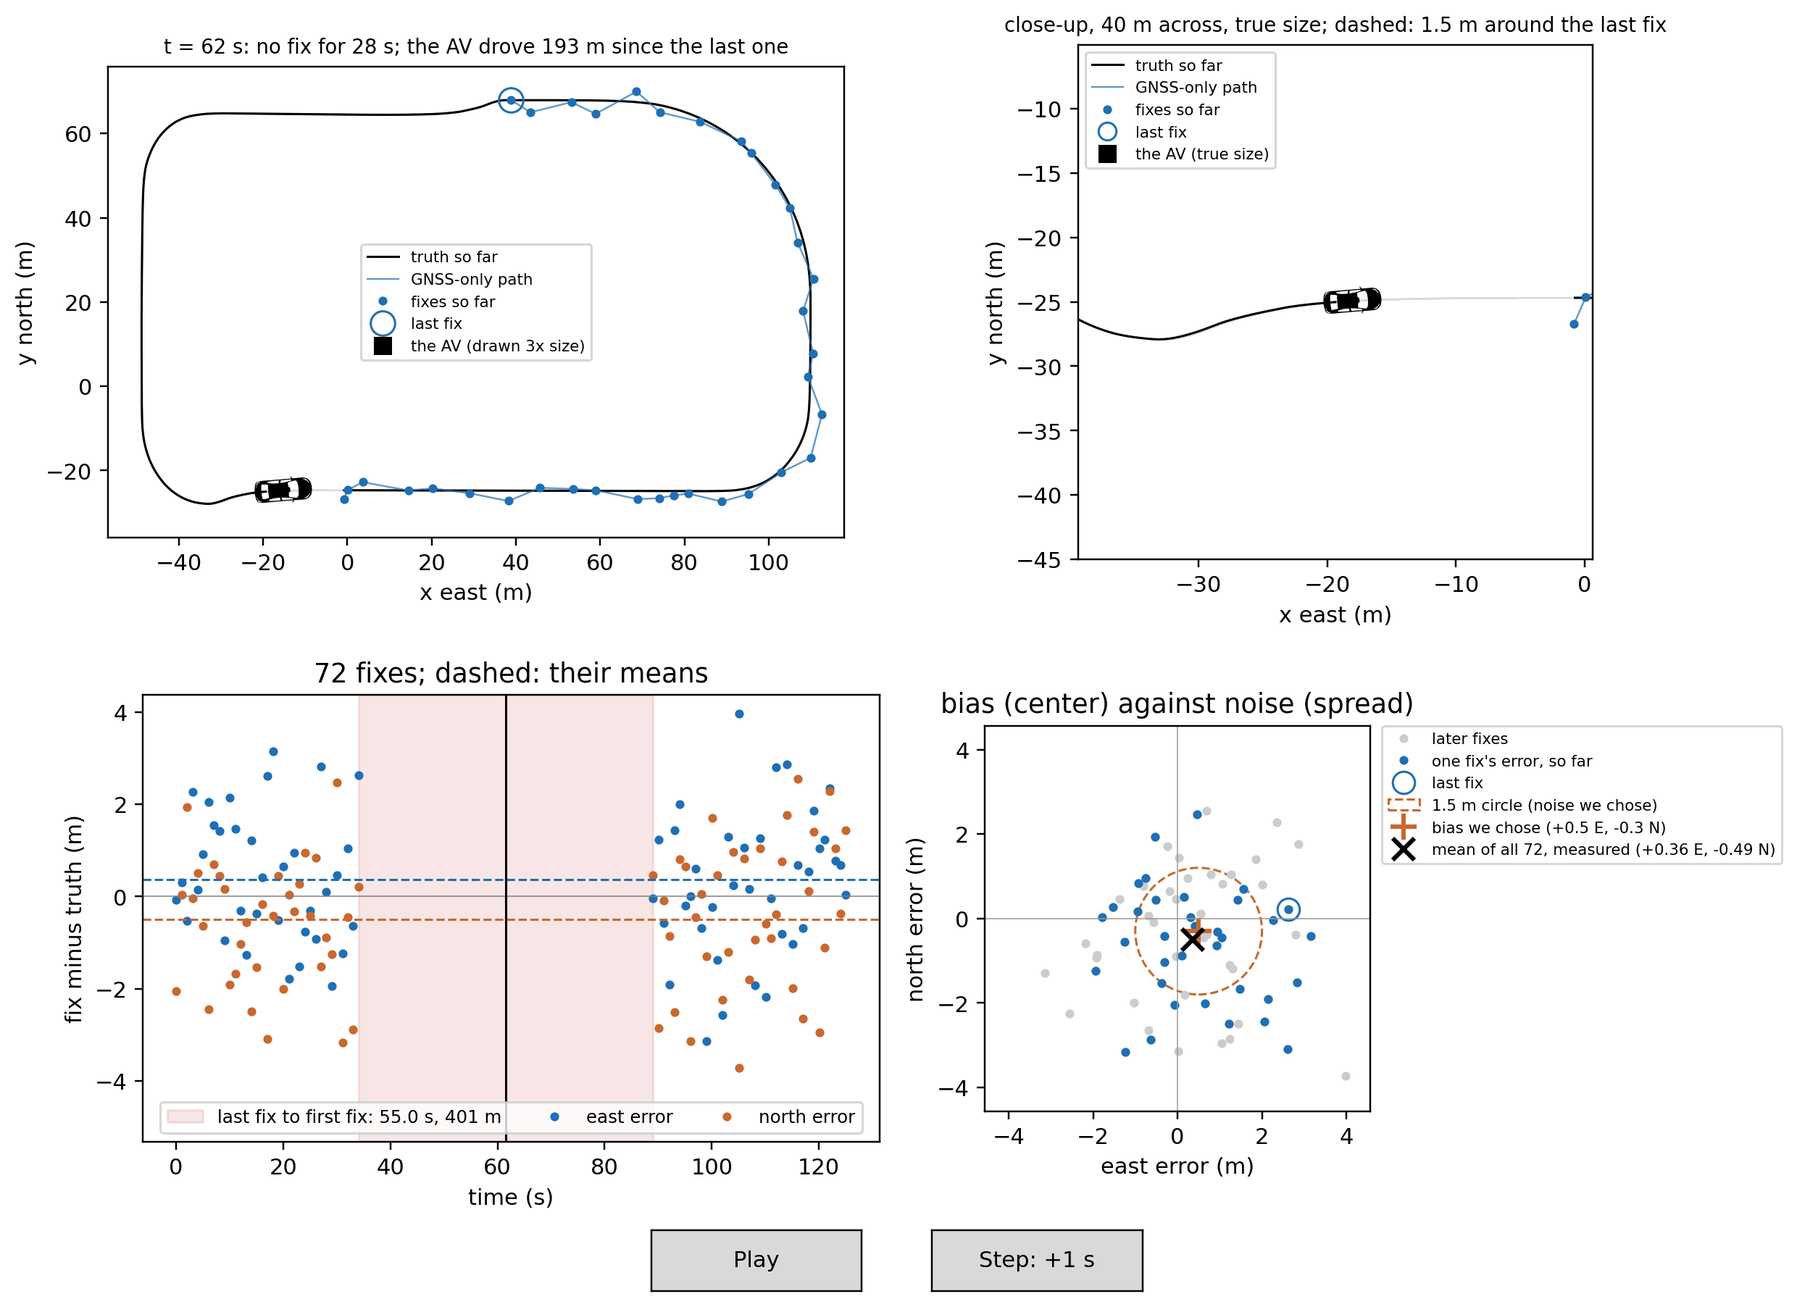
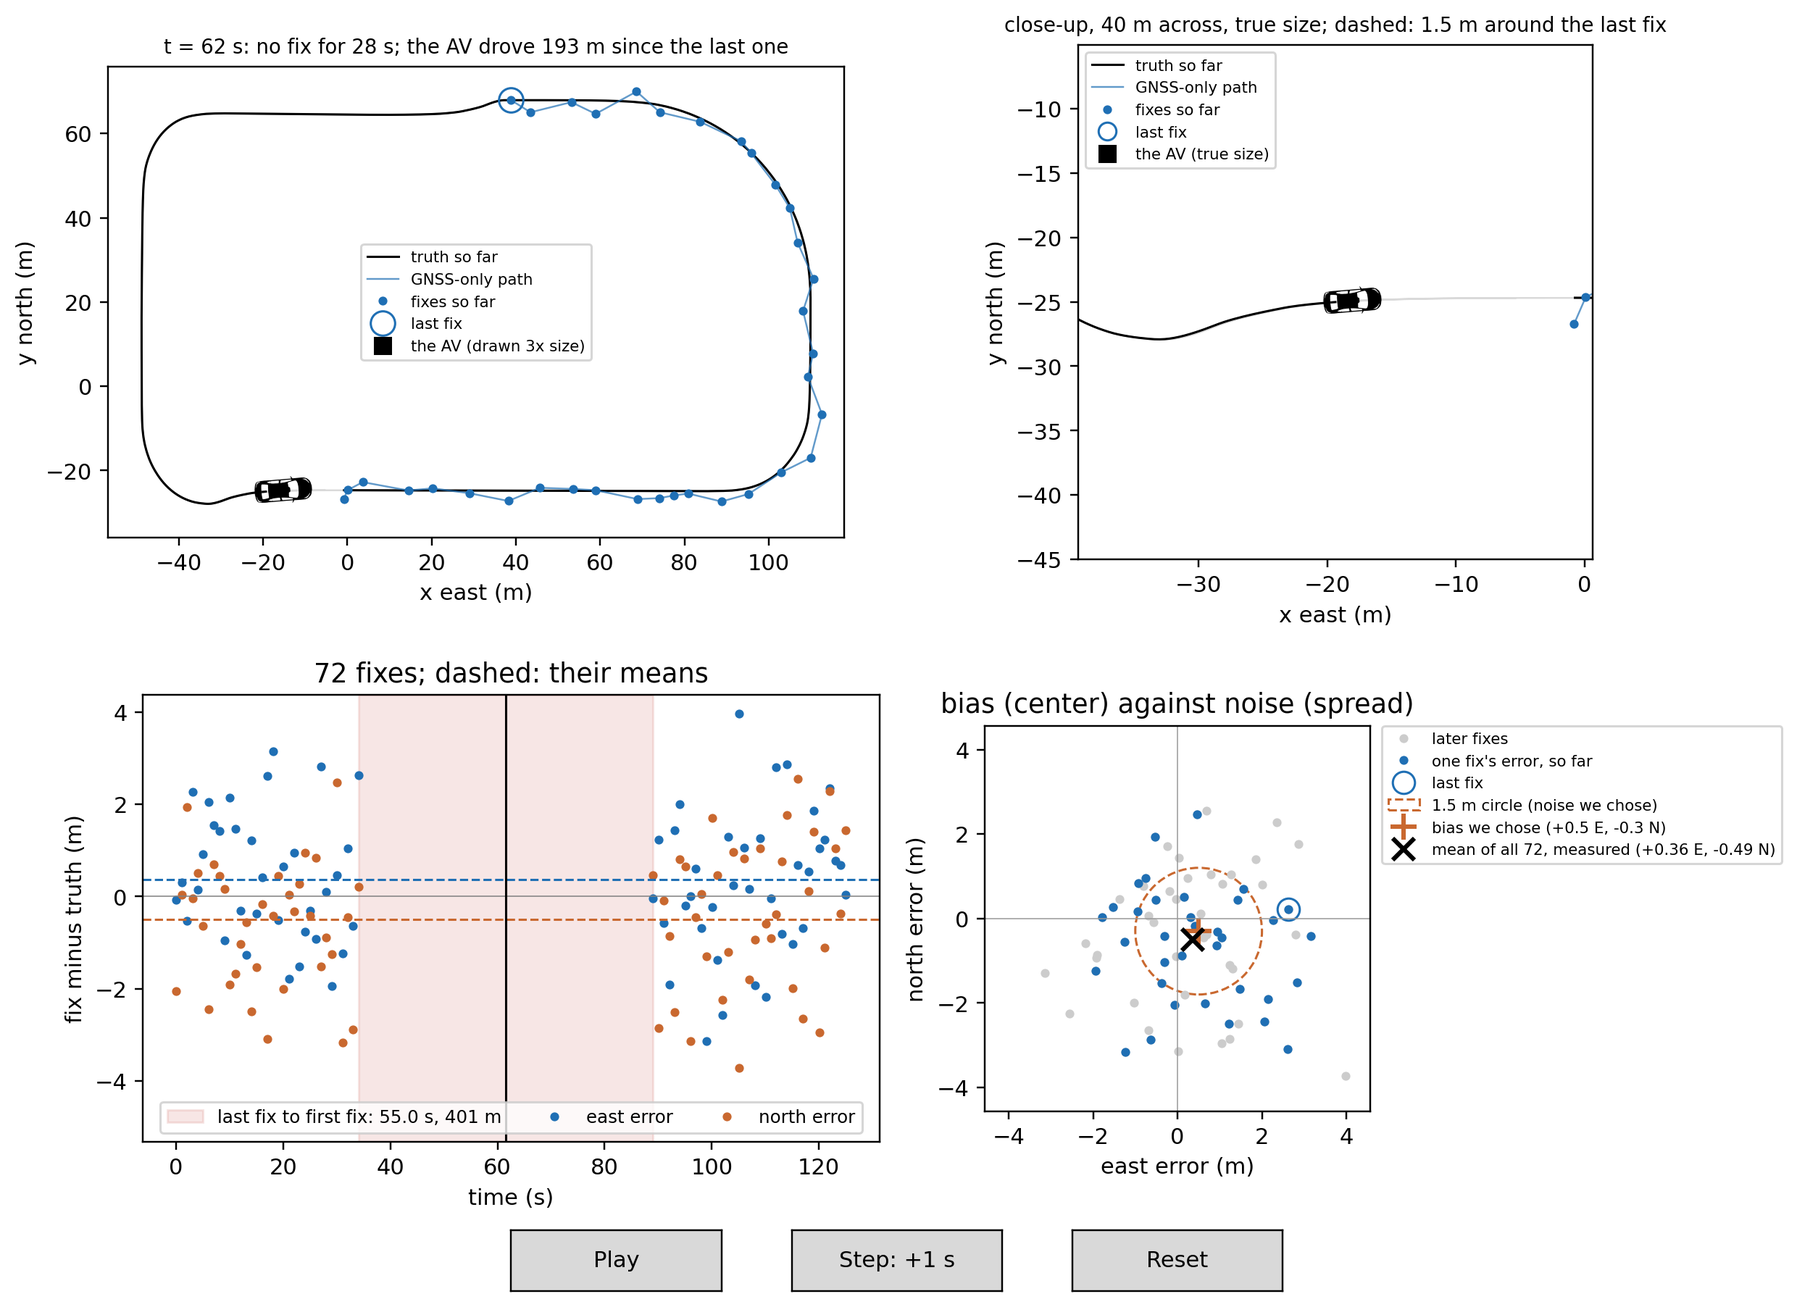
L6 pages: the 0.29 m bound first, dead reckoning step and summary (held back)
- Two lecture sections build the 0.29 m bound from the lane, the car and
  the heading; the appendix holds the formulas; glossary entry Error Bound.
- Dead reckoning: one-step figure, how the heading goes wrong, why corners
  matter, and a summary; RTK limits retitled; Reset button in the hands-on.

Changed region(s): [[0.5589, 0.9313, 0.7141, 0.9933], [0.4036, 0.9313, 0.5278, 0.9933], [0.2794, 0.9313, 0.3726, 0.9933]]

diff --git a/docs/source/lectures/lecture6/l6_lecture.rst b/docs/source/lectures/lecture6/l6_lecture.rst
@@ -45,6 +45,73 @@ pose, every object from L5 gets a place on the map too: we only add the two
 arrows.
 
 
+.. _l6-lec-bound:
+
+Step 1: How Much Room the Lane Leaves the AV
+~~~~~~~~~~~~~~~~~~~~~~~~~~~~~~~~~~~~~~~~~~~~
+
+Before any method, a target: how far off may the AV's position be? We take
+one published answer, Reid et al. (2019). They start from one goal: "to keep
+the vehicle in its respective lane". So the answer comes from two sizes, the
+lane and the car.
+
+.. figure:: /_static/images/L6/bound_lane.png
+   :alt: Two top views of a lane 3.0 meters wide, to scale, with the AV drawn 2.1 meters wide and 5.8 meters long, driving to the right. Panel 1, straight road: rust arrows between the car's sides and the lane edges, each labeled 0.45 m, and the lane width labeled lane 3.0 m. Panel 2, a turn of radius 20 meters: the lane bends upward in the middle; a rust dashed box around the car, 0.33 m larger on every side, touches the inner edge at its middle and the outer edge at its two far corners, marked with rust dots; rust arrows labeled 0.33 m below the car and in front of it.
+   :width: 95%
+   :align: center
+
+   The lane and the car, to scale. **1:** on a straight road, 0.45 m of room
+   on each side. **2:** in a turn of radius 20 m, the dashed box (the car
+   with 0.33 m of error each way) touches the outer edge at its corners.
+
+1. A local-street lane: 3.0 m wide. The largest passenger car: 2.1 m wide
+   and 5.8 m long (US standards, in the paper).
+2. Straight road: :math:`(3.0 - 2.1) / 2 = 0.45` m of room on each side. Off
+   by more, and the AV can think it is in its lane while a wheel is on the
+   line.
+3. A turn of radius 20 m: the car is long and straight, and the lane bends.
+   The dashed box is everywhere the car could be if its position is off by
+   up to 0.33 m in any direction. Its far corners just touch the outer edge,
+   and its middle touches the inner edge. So in the turn the room is 0.33 m,
+   sideways and along the road.
+
+.. tip::
+
+   See "The Error Bound" in :doc:`l6_appendix` for the formulas.
+
+
+.. _l6-lec-bound-2:
+
+Step 2: the Heading Takes a Share, 0.29 m Is Left
+~~~~~~~~~~~~~~~~~~~~~~~~~~~~~~~~~~~~~~~~~~~~~~~~~~
+
+.. figure:: /_static/images/L6/bound_heading.png
+   :alt: A top view of the same car between two lane edges. A gray dashed outline shows the car pointing straight along the lane; the AV drawing is turned a few degrees about its center. An orange line and arc at the center mark the angle, labeled heading error, drawn at 8 degrees; the paper allows 0.5 degrees. A rust arrow at the front corner, labeled the front swings sideways, points toward the lane edge.
+   :width: 75%
+   :align: center
+
+   A heading error turns the AV, so its front swings sideways. The angle is
+   drawn at 8 degrees so it shows; the paper allows 0.5 degrees.
+
+1. The localizer also reports a heading. A heading error turns the AV, so
+   its front swings sideways. The paper allows 0.5 degrees: by its formula,
+   that uses 0.04 m of the 0.33 m.
+2. :math:`0.33 - 0.04 = 0.29` m is left for the position error.
+
+.. admonition:: Definition: error bound (the paper's alert limit)
+   :class: note
+
+   "The allowable maximum position error of the vehicle to ensure it is
+   within the lane" (Reid et al., 2019). The error may pass it at most once
+   in :math:`10^8` hours of driving. On a local street: 0.29 m, with 95% of
+   errors within 0.10 m.
+
+The paper picks that rate to make driving a hundred times safer than today,
+as safe as commercial flying. On a freeway the lanes are wider and the curves
+gentler, and the same steps give 0.57 m sideways. Today we stay on local
+streets: **0.29 m**. We compare every method against it.
+
+
 .. _l6-lec-pose-twice:
 
 We Needed the AV's Pose Twice Already
@@ -85,21 +152,8 @@ the pose in the map frame, :math:`x`, :math:`y` and the heading
    scan, map) go in; **one output** comes out: the pose in the map frame,
    :math:`x, y, \theta`, plus how sure it is, a covariance.
 
-.. _l6-lec-bound:
-
-**How good is good enough?** One published answer, for a passenger car, is
-from Reid et al. (2019):
-
-- Local streets: "lateral and longitudinal error bounds of 0.29 m (0.10 m,
-  95%)". Lateral means sideways; longitudinal means along the road.
-- Freeways: "a required lateral error bound of 0.57 m (0.20 m, 95%)".
-
-The **bound** is the error the AV must stay inside almost always. The paper
-derives it at a failure rate of :math:`10^{-8}` per hour of driving: the
-error goes past the bound less than once in 100 million hours of driving.
-
-Keep **0.29 m** in mind. It is how far the car may be from where it thinks
-it is, on a local street. Today we compare every method against that number.
+**The target:** the pose within the 0.29 m error bound of a local street,
+from :ref:`the first two sections <l6-lec-bound>` (Reid et al., 2019).
 
 
 .. _l6-lec-frames:
@@ -475,7 +529,7 @@ In the course's Python repo, folder ``lecture6``:
    python3 l6_handson.py --part gnss   # the fixes as they arrive
 
 .. figure:: /_static/images/L6/handson_gnss.png
-   :alt: The hands-on window in four panels with two buttons at the bottom, Play and Step: +1 s, shown at 62 seconds. Top left, the whole route from above: the true path so far in black, the GNSS fixes so far as blue dots joined by a thin blue GNSS-only path, the last fix circled at the top, and the AV drawn as a small car three times its size; the title reads t = 62 s, no fix for 28 s, the AV drove 193 m since the last one. Top right, a close-up 40 meters across around the AV at true size, with no fixes nearby. Bottom left, each fix's error east in blue and north in rust against time, dashed mean lines, and a pink band from 34 to 89 seconds with no dots. Bottom right, every fix's error as a point: the fixes up to 62 seconds in blue with the newest circled, the later ones in gray; a dashed 1.5 meter circle around the chosen bias, a plus for the chosen bias at 0.5 east and 0.3 south, and a cross for the measured mean of all 72 at 0.36 east and 0.49 south. The legend sits to the right of that panel.
+   :alt: The hands-on window in four panels with three buttons at the bottom, Play, Step: +1 s and Reset, shown at 62 seconds. Top left, the whole route from above: the true path so far in black, the GNSS fixes so far as blue dots joined by a thin blue GNSS-only path, the last fix circled at the top, and the AV drawn as a small car three times its size; the title reads t = 62 s, no fix for 28 s, the AV drove 193 m since the last one. Top right, a close-up 40 meters across around the AV at true size, with no fixes nearby. Bottom left, each fix's error east in blue and north in rust against time, dashed mean lines, and a pink band from 34 to 89 seconds with no dots. Bottom right, every fix's error as a point: the fixes up to 62 seconds in blue with the newest circled, the later ones in gray; a dashed 1.5 meter circle around the chosen bias, a plus for the chosen bias at 0.5 east and 0.3 south, and a cross for the measured mean of all 72 at 0.36 east and 0.49 south. The legend sits to the right of that panel.
    :width: 95%
    :align: center
 
@@ -490,7 +544,8 @@ In the course's Python repo, folder ``lecture6``:
 
 The two laps cover the same road, so on the map the gap is hidden: the other
 lap's fixes fill it. The gap shows in time. **Play** runs the drive from
-start to finish; **Step: +1 s** moves one second, one fix, at a time. Watch
+start to finish; **Step: +1 s** moves one second, one fix, at a time;
+**Reset** goes back to the start. Watch
 the distance since the last fix grow.
 
 1. Press Play, or step into the outage. How far does the AV drive before the
@@ -616,17 +671,18 @@ Numbers chosen for this example:
 
 .. _l6-lec-rtk-limits:
 
-What RTK Cannot Cancel
-~~~~~~~~~~~~~~~~~~~~~~
+What the AV Cannot Correct with RTK
+~~~~~~~~~~~~~~~~~~~~~~~~~~~~~~~~~~~
 
-So why not just buy RTK? Three reasons.
+So why not just buy RTK? Remember who corrects: the AV, by subtracting the
+base's error in step 4. Three problems survive that subtraction.
 
 .. figure:: /_static/images/L6/rtk_limits.png
    :alt: Three side-view panels. Panel 1, a bounce at the AV: a satellite signal reaches the base station on the left directly, while the signal to the AV bounces off a tall glass tower first, drawn as a rust dashed line; caption base in the open, the bounce is at the AV only. Panel 2, no sky: the AV under a tunnel roof, the satellite's signals stop at the roof, marked with rust crosses; caption no satellites in view, no fix, with or without RTK. Panel 3, far from the base: the base on the left and the AV on the right, joined by a double arrow along the ground. Each one's signal crosses a different shaded patch, labeled atmosphere: the blue patch over the base is labeled delay 1, the rust patch over the AV delay 2; caption beyond 10 to 20 km: the delays differ.
    :width: 95%
    :align: center
 
-   What RTK cannot cancel. **1:** the signal to the AV bounces off a glass
+   What the AV cannot correct with RTK. **1:** the signal to the AV bounces off a glass
    tower; the base, in the open, does not see that bounce. **2:** under a
    roof no satellite is in view. **3:** far apart, the two signals cross
    different parts of the atmosphere and are delayed differently. **Rust** marks an error.
@@ -702,9 +758,29 @@ When GNSS stops, the car still knows how fast it goes and how fast it turns.
    turned. The wheels measure the speed :math:`v`; the gyro measures the
    turn rate :math:`\omega`, in rad/s.
 
+That is the whole method. It is also the predict step of every filter today.
+
+
+.. _l6-lec-dr-step:
+
+One Dead-Reckoning Step: Move Along the Heading, Then Turn
+~~~~~~~~~~~~~~~~~~~~~~~~~~~~~~~~~~~~~~~~~~~~~~~~~~~~~~~~~~
+
+.. figure:: /_static/images/L6/dr_step.png
+   :alt: A top view with the map frame at the bottom left, x east and y north. The AV at its position, labeled now: x, y, theta, faces 30 degrees above east; an orange arc from a dashed east line marks theta. A green arrow labeled v delta t runs from the AV along its heading to a second AV, labeled after delta t. Two dashed green arrows split that move: one east, labeled x plus-equals v cos theta delta t, then one north, labeled y plus-equals v sin theta delta t. The second AV is turned further left; an orange arc from the old heading, labeled theta plus-equals omega delta t, shows the turn. A gray note says one step, drawn far longer than 0.05 s.
+   :width: 80%
+   :align: center
+
+   One step, drawn much longer than 0.05 s so it shows. **Green:** the move,
+   :math:`v\,\Delta t` along the heading, split into its east and north
+   parts. **Orange:** the angles, the heading :math:`\theta` and the turn
+   :math:`\omega\,\Delta t`.
+
 Every :math:`\Delta t` seconds (0.05 s on our drive), the car moves
-:math:`v\,\Delta t` meters in the direction it faces, then turns by
-:math:`\omega\,\Delta t`:
+:math:`v\,\Delta t` meters in the direction it faces, the green arrow.
+Split along the map's axes, that is :math:`v\cos\theta\,\Delta t` east and
+:math:`v\sin\theta\,\Delta t` north, the two dashed arrows. Then it turns
+by :math:`\omega\,\Delta t`, and the next step moves along the new heading:
 
 .. math::
 
@@ -712,16 +788,17 @@ Every :math:`\Delta t` seconds (0.05 s on our drive), the car moves
    y \mathrel{+}= v\sin\theta\,\Delta t, \qquad
    \theta \mathrel{+}= \omega\,\Delta t
 
-That is the whole method. It is also the predict step of every filter today.
-
 
 .. _l6-lec-heading:
 
 A Heading Error Grows with Every Meter
 ~~~~~~~~~~~~~~~~~~~~~~~~~~~~~~~~~~~~~~
 
-Which error hurts dead reckoning most? The heading. Suppose the AV believes
-it faces :math:`1^\circ` off its true heading, and drives straight. How far
+Which error hurts dead reckoning most? The heading. How can the AV be wrong
+about where it faces? Without GNSS, its heading is its last heading plus
+every turn the gyro reported, so the gyro's small errors add up. On our
+drive it was :math:`6.0^\circ` off by the end of the outage (measured).
+Suppose it is :math:`1^\circ` off, and the AV drives straight. How far
 sideways is it after 100 m?
 
 1. :math:`1^\circ = 0.01745` rad, and :math:`\sin 1^\circ = 0.01745`.
@@ -751,23 +828,23 @@ same amount every meter.
 A Gyro Bias Makes the Heading Error Itself Grow
 ~~~~~~~~~~~~~~~~~~~~~~~~~~~~~~~~~~~~~~~~~~~~~~~
 
-Our gyro has a bias: it reports 0.001 rad/s of turning when the car goes
-straight. That looks tiny. Chosen for this example: speed
-:math:`v = 10` m/s, gyro bias :math:`b = 0.001` rad/s (our drive's), the car
-driving straight.
+The AV drives straight at :math:`v = 10` m/s (chosen). Its gyro reports
+:math:`b = 0.001` rad/s of turning that is not there (our drive's bias).
+That looks tiny.
 
-1. The heading error is no longer fixed. It grows: :math:`b\,t` after
-   :math:`t` seconds. After 30 s it is 0.03 rad, :math:`1.7^\circ`.
-2. The car drifts sideways at :math:`v` times the heading error, so the
-   sideways speed grows too.
-3. Adding up a speed that grows steadily gives
+1. The heading error grows with time: :math:`b\,t` after :math:`t` seconds.
+   After 30 s it is 0.03 rad, :math:`1.7^\circ`.
+2. The AV drifts sideways at :math:`v` times the heading error, so the drift
+   speeds up.
+3. Added up, the sideways error after 30 s is
 
    .. math::
 
       \text{sideways error} \approx \frac{v\,b\,t^2}{2}
       = \frac{10 \times 0.001 \times 30^2}{2} = 4.5 \text{ m}
 
-The program that integrates step by step gets 4.54 m.
+A program that follows the AV in 0.05 s steps gets 4.54 m, the same. After
+60 s it gets 18.08 m: twice the time gives four times the error.
 
 .. figure:: /_static/images/L6/bias_growth.png
    :alt: A graph of sideways error in meters against time since the last fix, 0 to 60 seconds. A rust curve, integrated step by step for a car driving straight with a biased gyro, bends upward through dots labeled 0.52 meters at 10 seconds, 4.54 at 30 and 18.08 at 60. A dotted black curve, v b t squared over 2, lies on top of it.
@@ -812,7 +889,37 @@ gyro only through the 400 m without GNSS.
   But the trend is clear: 2.7 m after 100 m, 8.2 m after 300 m, against a
   bound of 0.29 m.
 
-Dead reckoning bridges a short gap, never a long one.
+**Why the corners matter.** Over each 90 degree corner, CARLA's gyro reports
+a little more turning than the car made: 0.3 to 1.1 degrees extra
+(measured). So the heading error steps up at each corner, from 0 to 6
+degrees by the end of the outage, and the straight after a corner drifts
+faster: 80 m at 5 degrees puts about 7 m on the error. A corner also turns
+the old sideways error into an error along the road. That is why the error
+can drop at a corner and the paths cross.
+
+
+.. _l6-lec-dr-summary:
+
+Where Dead Reckoning Leaves Us
+~~~~~~~~~~~~~~~~~~~~~~~~~~~~~~
+
+.. admonition:: Summary: dead reckoning
+   :class: tip
+
+   - **A way to localize without the sky:** from the last known pose, add
+     up the wheels' speed and the gyro's turn rate. Smooth, 20 times a
+     second.
+   - **Its errors only add up.** A heading error grows the sideways error
+     with every meter (:math:`1^\circ`: 1.75 m after 100 m); a gyro bias
+     makes it grow with time squared; on our drive, each corner added
+     heading error.
+   - **On our drive:** 2.69 m after 100 m and 9.03 m at worst, 31 times the
+     0.29 m bound (:math:`9.03 / 0.29 = 31`).
+   - **So:** good for a short gap (16.6 m at :math:`1^\circ`), never alone
+     for long.
+
+**Next:** keep dead reckoning between fixes, and let each GNSS fix pull it
+back: L3's extended Kalman filter.
 
 
 .. _l6-lec-ekf:

diff --git a/docs/source/lectures/lecture6/l6_appendix.rst b/docs/source/lectures/lecture6/l6_appendix.rst
@@ -37,6 +37,64 @@ Going Further
        error.
 
 
+The Error Bound
+---------------
+
+This section continues the Introduction of the :doc:`lecture <l6_lecture>`:
+where Reid et al. (2019) get 0.29 m.
+
+
+The 0.33 m in a Turn, and the Heading's Share
+~~~~~~~~~~~~~~~~~~~~~~~~~~~~~~~~~~~~~~~~~~~~~
+
+Symbols: lane center radius :math:`r`, lane width :math:`w`; car width
+:math:`w_v` and length :math:`l_v`; the box around the car is :math:`x` wide
+and :math:`y` long. The paper's equations:
+
+.. math::
+
+   \Big(\frac{y}{2}\Big)^2 + \Big(r - \frac{w}{2} + x\Big)^2
+   = \Big(r + \frac{w}{2}\Big)^2, \qquad
+   \text{room: } \frac{x - w_v}{2} \text{ sideways}, \quad
+   \frac{y - l_v}{2} \text{ along the road}
+
+1. With :math:`r = 20` m, :math:`w = 3.0` m, :math:`w_v = 2.1` m and
+   :math:`l_v = 5.8` m, we solve for equal room both ways: 0.328 m (box
+   2.76 m by 6.46 m). The paper reads 0.33 m off its Figure 14.
+2. The heading's share (the paper's equation 17, the same angle error
+   :math:`\delta` about every axis):
+   :math:`\delta_{\mathrm{lat}} + (\delta_{\mathrm{lon}} + \delta_{\mathrm{vert}} + l_v/2)\,\delta \le 0.33`
+   m. Here :math:`\delta_{\mathrm{lat}}`, :math:`\delta_{\mathrm{lon}}` and
+   :math:`\delta_{\mathrm{vert}}` are the allowed position errors sideways,
+   along the road and up.
+3. With :math:`\delta = 0.5^\circ = 0.00873` rad,
+   :math:`\delta_{\mathrm{lon}} = 0.29` m and the paper's
+   :math:`\delta_{\mathrm{vert}} = 1.40` m:
+   :math:`(0.29 + 1.40 + 2.90) \times 0.00873 = 0.040` m.
+4. :math:`\delta_{\mathrm{lat}} = 0.33 - 0.04 = 0.29` m.
+
+
+Once in :math:`10^8` Hours, and the 95% Value
+~~~~~~~~~~~~~~~~~~~~~~~~~~~~~~~~~~~~~~~~~~~~~~~~~~~~~
+
+**The rate** (Reid et al., 2019):
+
+1. The target: road travel as safe as commercial aviation, a hundred times
+   safer than today.
+2. The paper splits that over the AV's systems and gives localization
+   :math:`10^{-9}` failures per mile.
+3. At 10 to 85 miles per hour, :math:`10^{-9}` per mile is :math:`10^{-8}`
+   to :math:`8.5 \times 10^{-8}` per hour. The paper uses :math:`10^{-8}` per
+   hour.
+
+**The 95% value**, if the errors were Gaussian (the paper's assumption for
+this step):
+
+1. Missing at most :math:`10^{-8}` of the time is about :math:`5.73\sigma`;
+   95% is :math:`1.96\sigma`.
+2. :math:`0.29 \times 1.96 / 5.73 = 0.099`, so 0.10 m.
+
+
 RTK
 ---
 

diff --git a/docs/source/glossary/glossary.rst b/docs/source/glossary/glossary.rst
@@ -990,6 +990,14 @@ E
       epochs is one remedy for overfitting.
       :doc:`L4 </lectures/lecture4/l4_index>`
 
+   Error Bound
+      "The allowable maximum position error of the vehicle to ensure it is
+      within the lane" (Reid et al., 2019), which the paper calls the alert
+      limit. The error may pass it at most once in :math:`10^8` hours of
+      driving. On a local street: 0.29 m, from a 3.0 m lane, a car 2.1 m
+      wide and 5.8 m long, and 0.5 degrees of heading error. See Alert
+      Limit. L6
+
    Estimate
       The filter's best guess of the state, written with a hat,
       :math:`\hat{\mathbf{x}}` (x-hat). The hat always means "our best

diff --git a/docs/source/lectures/lecture6/l6_code.rst b/docs/source/lectures/lecture6/l6_code.rst
@@ -113,7 +113,7 @@ The GNSS fixes as they arrive, against the true route. A fix comes once a
 second, then none for the outage. The window opens at the start. **Play**
 runs the drive from start to finish, one second of driving per tick (about
 13 s in all); press it again to pause. **Step: +1 s** moves one second, one
-fix, at a time. Four panels:
+fix, at a time. **Reset** stops and goes back to the start. Four panels:
 
 - **Top left, the whole route:** the truth so far in black, the fixes so far
   as blue dots, the **GNSS-only path** (the fixes joined in order: where the
